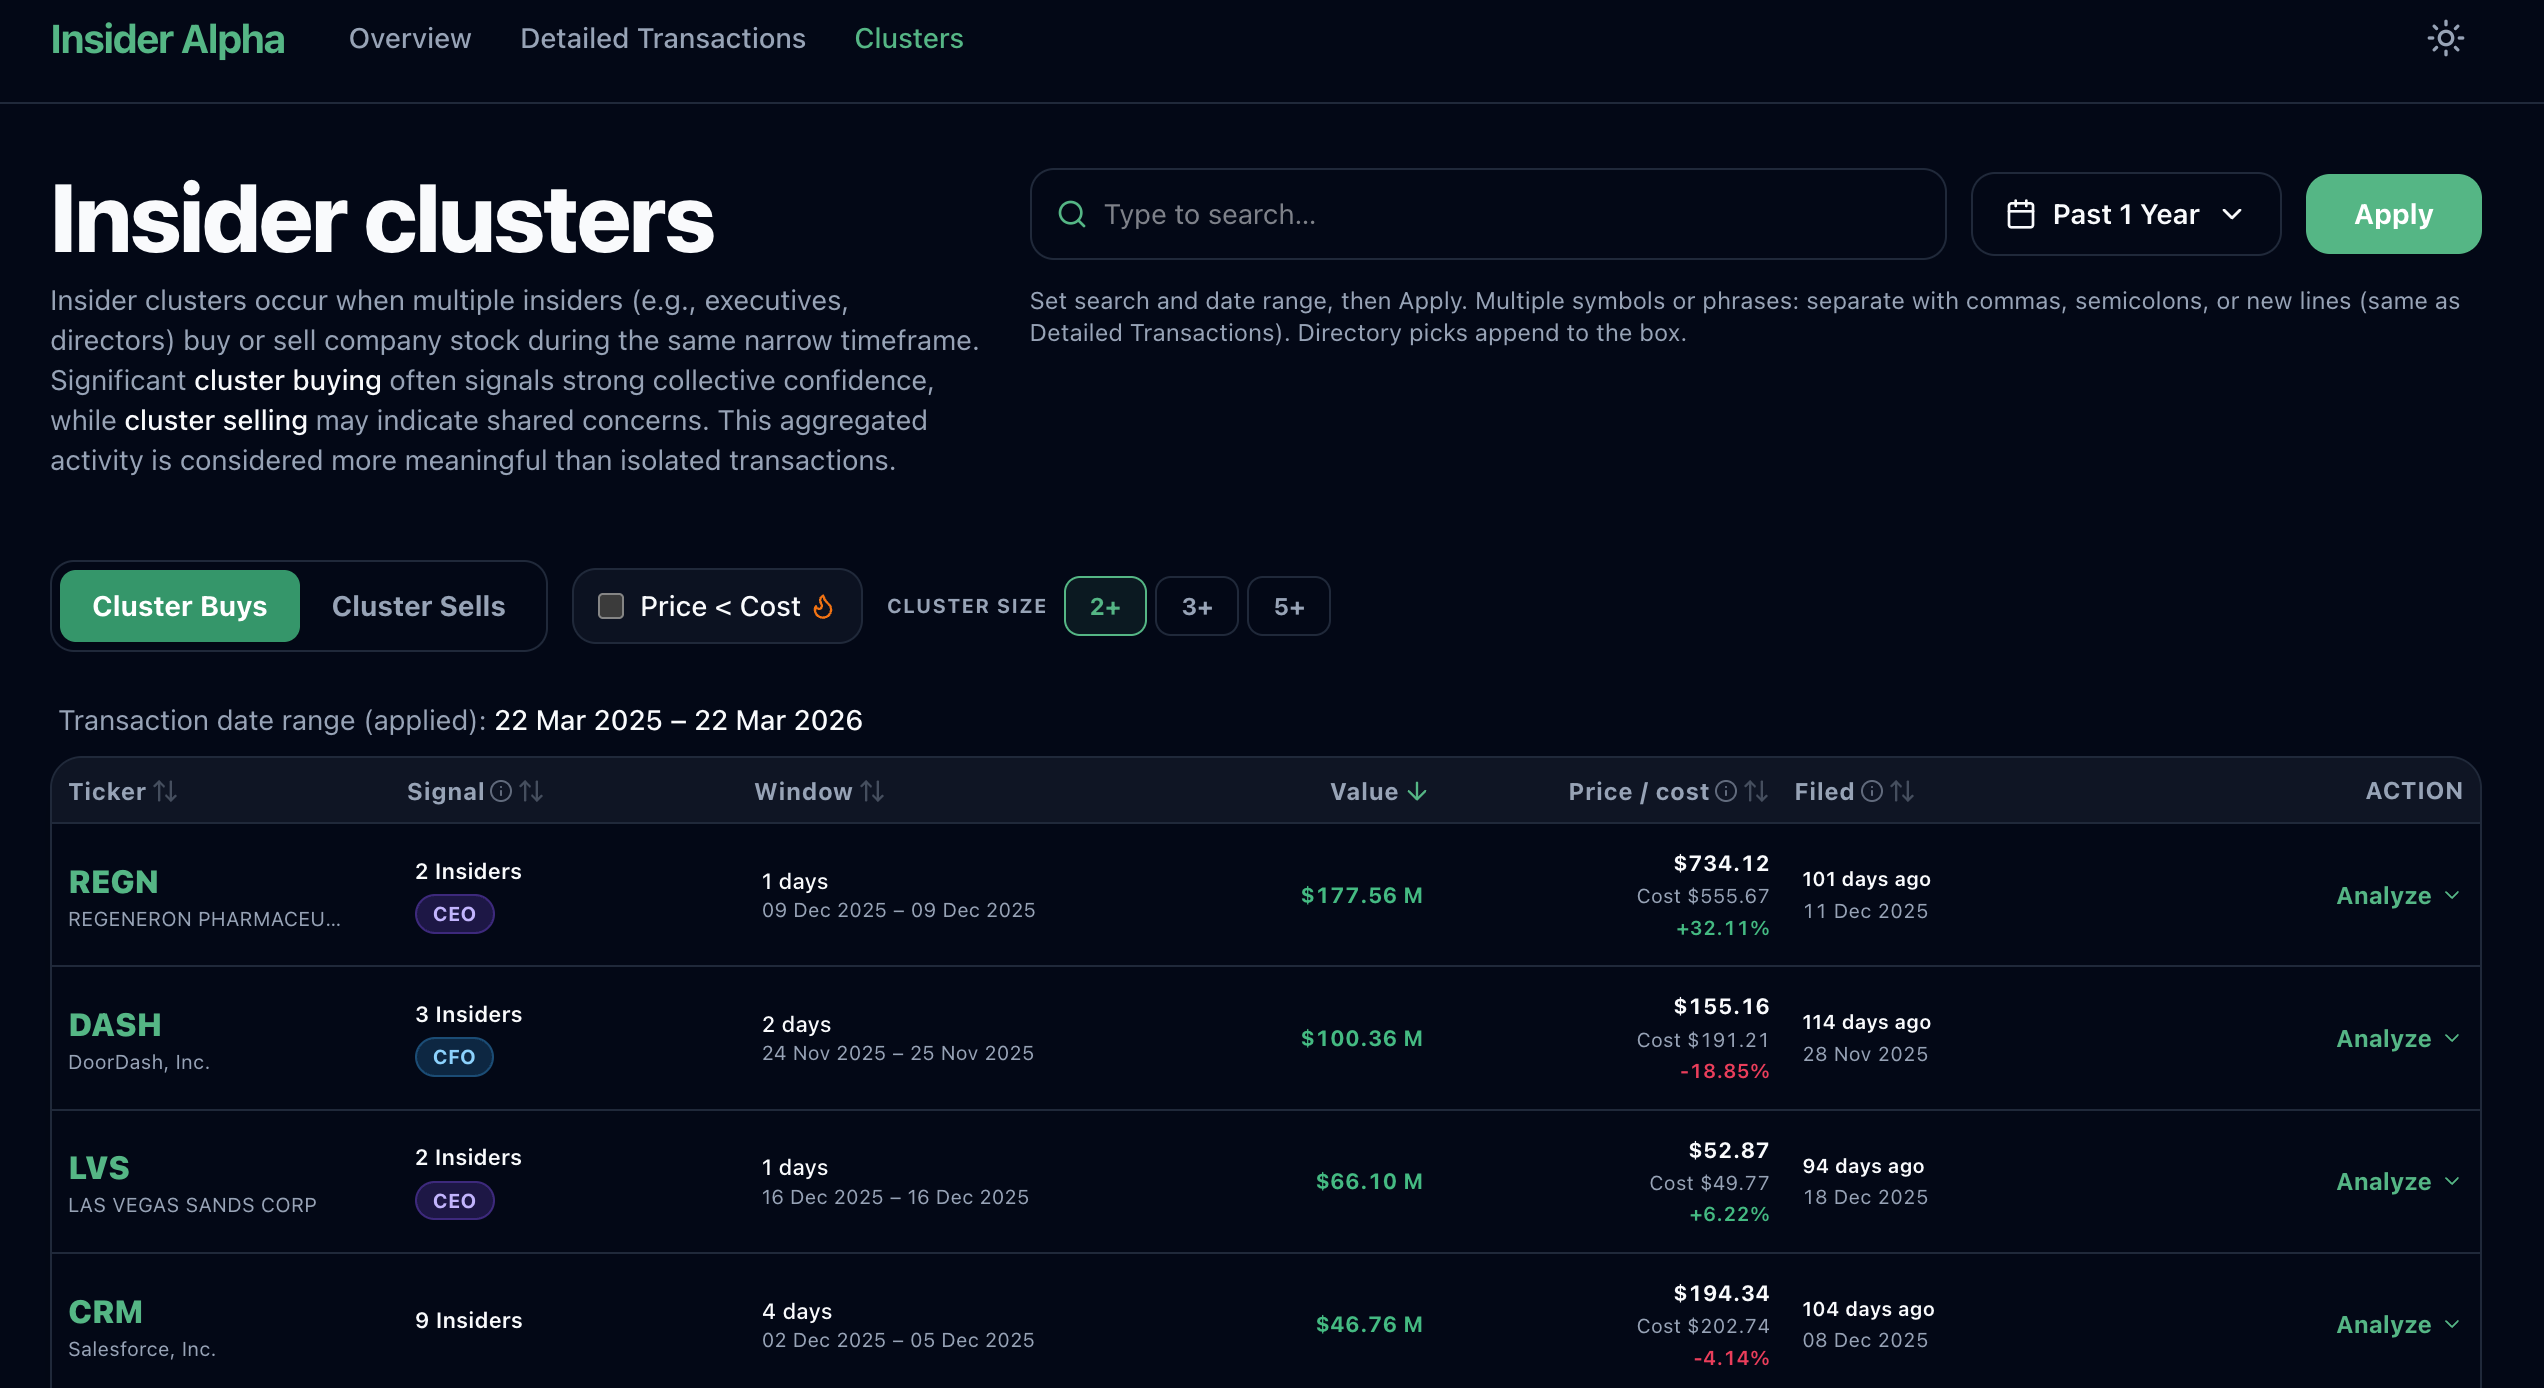
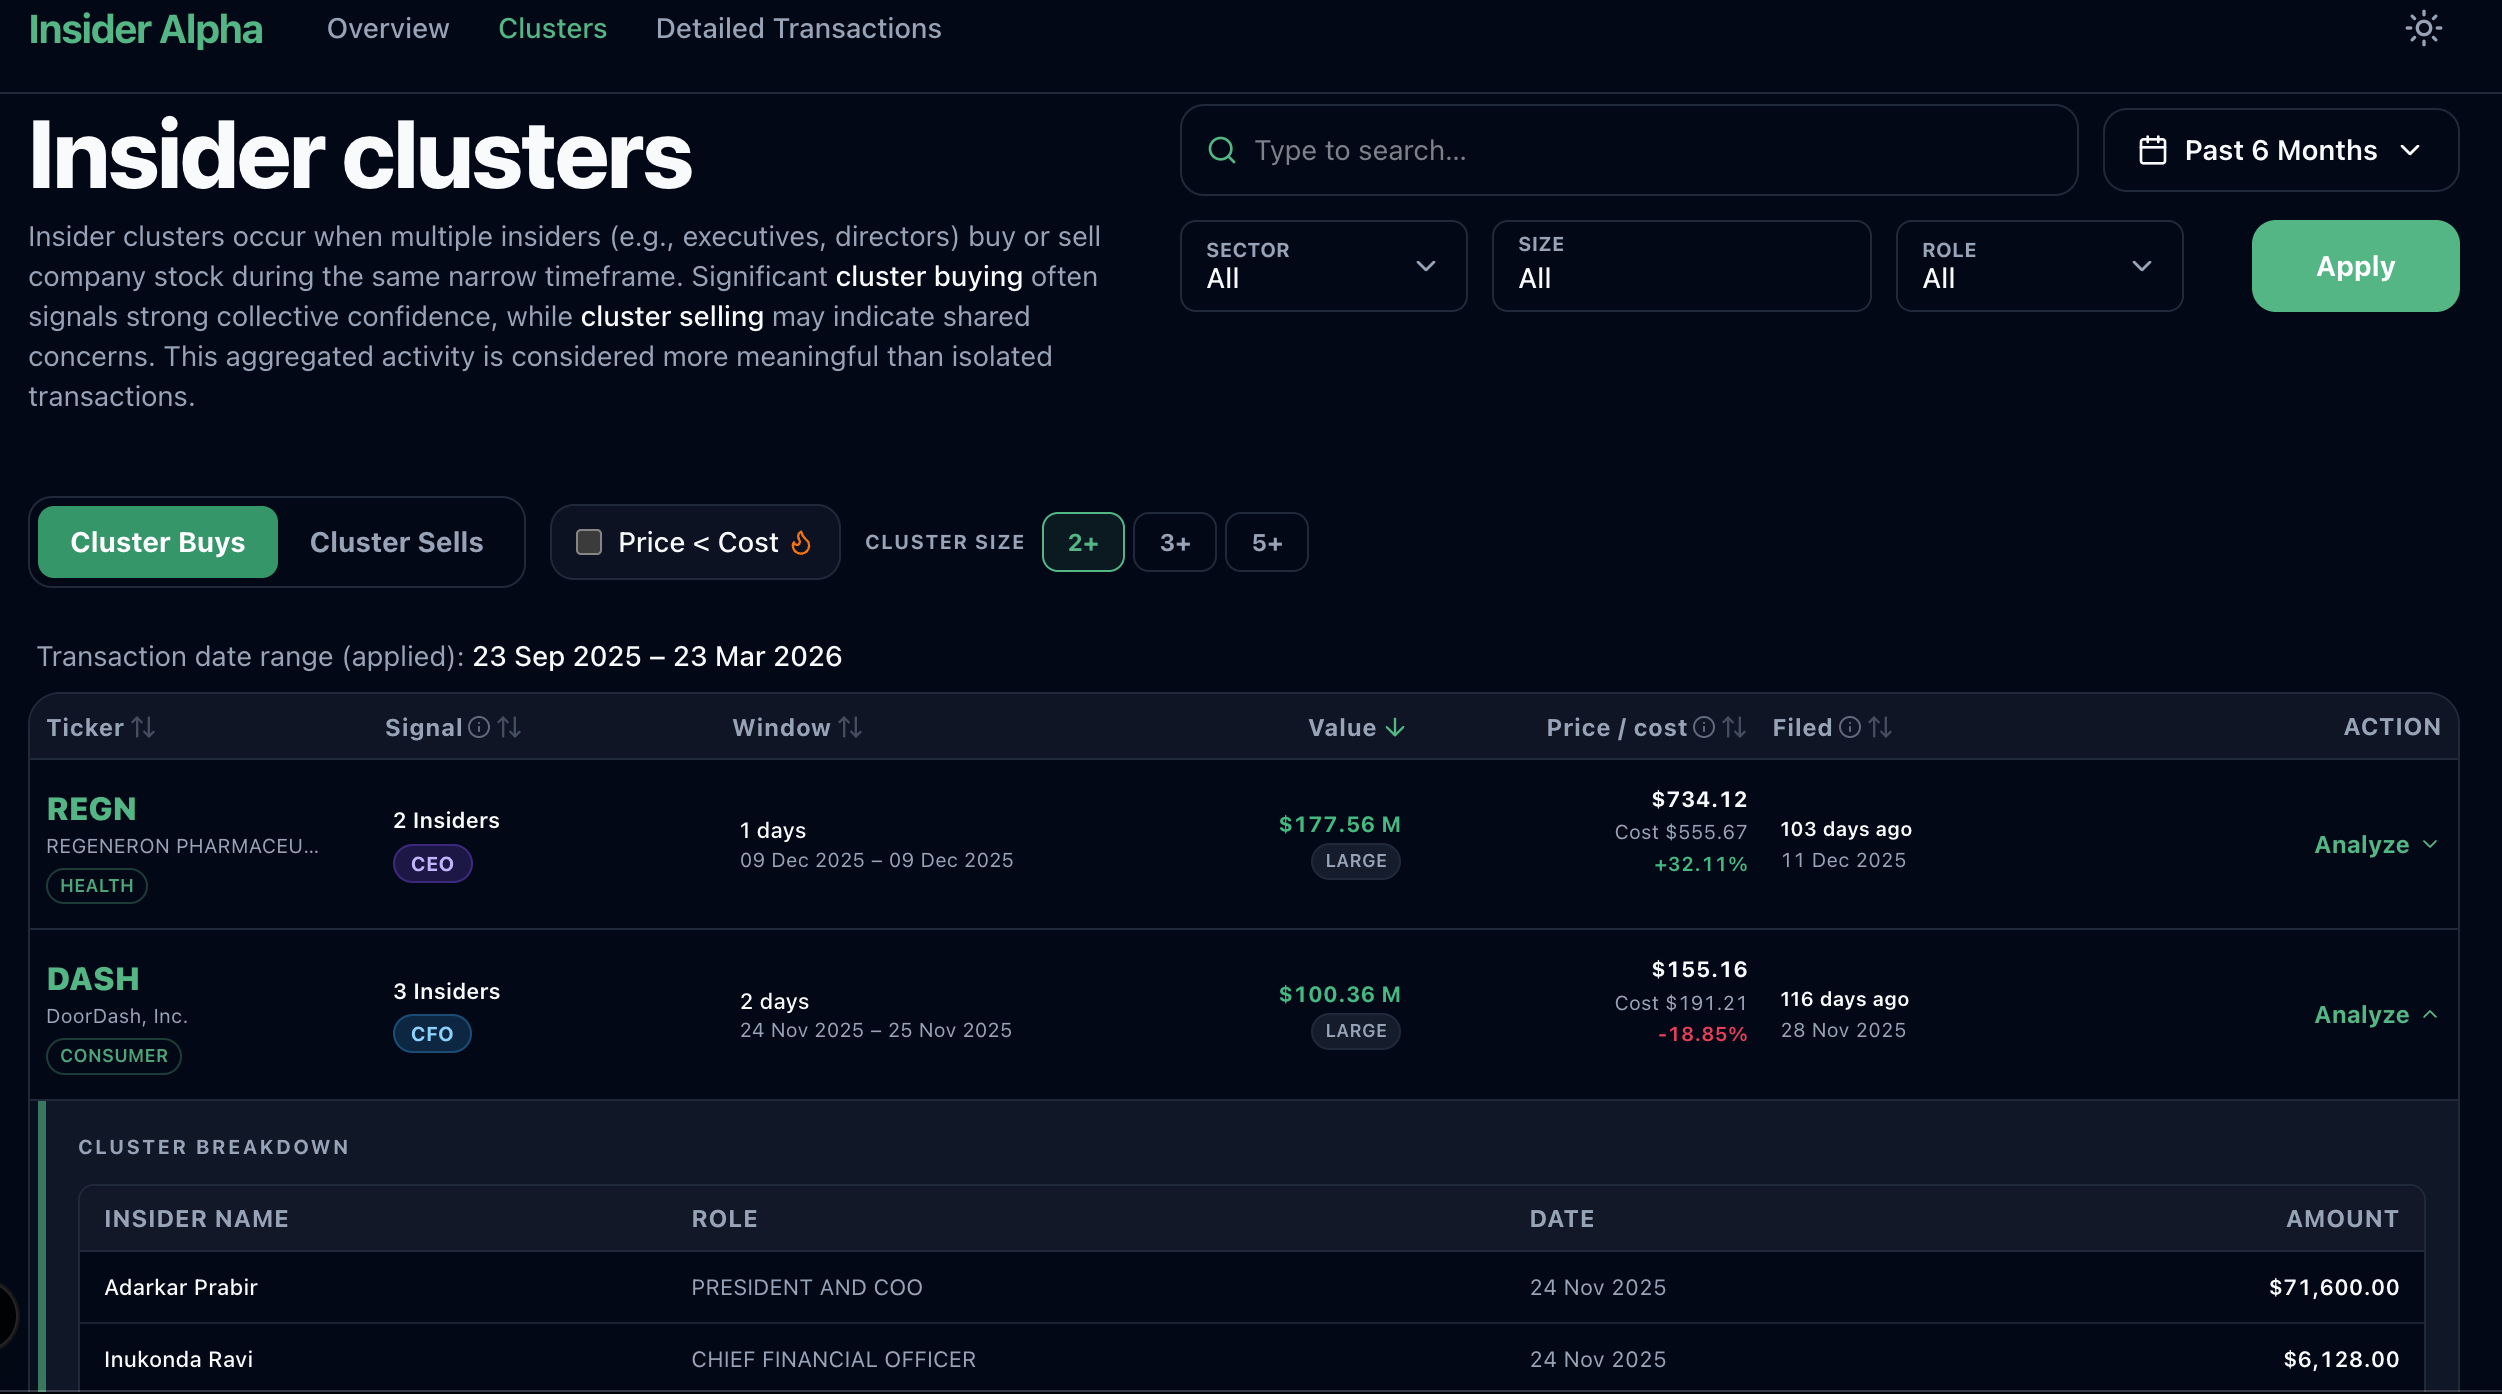
update

diff --git a/visualisation/frontend/src/app/clusters/page.tsx b/visualisation/frontend/src/app/clusters/page.tsx
@@ -29,6 +29,7 @@ import {
   returnPctColorClass,
   formatUsdPerShare,
   formatUsdSmart,
+  txnSizeBadge,
 } from "@/lib/transactionRowModel";
 import { ArrowDown, ArrowUp, ArrowUpDown, ChevronDown, ChevronUp, Flame, Info } from "lucide-react";
 import CandlestickModal from "@/components/CandlestickModal";
@@ -36,6 +37,7 @@ import CandlestickModal from "@/components/CandlestickModal";
 type ClusterRow = {
   ticker: string;
   company: string;
+  issuer_gics_sector?: string;
   filing_count: number;
   insider_count: number;
   week_start: string;
@@ -71,12 +73,6 @@ function windowDays(first: string, last: string) {
   return Math.max(1, Math.round((b - a) / 86400000) + 1);
 }
 
-function currencyM(v: number) {
-  const m = v / 1_000_000;
-  if (m >= 1000) return `$${(m / 1000).toFixed(2)} B`;
-  return `$${m.toFixed(2)} M`;
-}
-
 /** Whole calendar days from filing date (local) to today. */
 function filingDaysAgo(iso: string): number | null {
   const day = isoDay(iso);
@@ -100,6 +96,13 @@ function formatFilingDaysAgo(iso: string) {
 
 function clusterKey(r: ClusterRow) {
   return `${(r.ticker || "").trim().toUpperCase()}|${isoDay(r.week_start)}`;
+}
+
+function clusterSectorChip(sector?: string): string | null {
+  const s = (sector || "").trim();
+  if (!s) return null;
+  const w = s.split(/\s+/)[0] || s;
+  return w.length > 12 ? `${w.slice(0, 11)}…` : w;
 }
 
 function execCeoCfo(roles: string, titles: string) {
@@ -595,6 +598,8 @@ export default function ClustersPage() {
                       const cost = r.implied_price_per_share;
                       const retPct = returnVsTxnPricePct(lastClose, cost ?? null);
                       const badges = execCeoCfo(r.roles, r.titles ?? "");
+                      const sizeLabel = r.cluster_value > 0 ? txnSizeBadge(r.cluster_value) : "";
+                      const sector = clusterSectorChip(r.issuer_gics_sector);
                       const key = clusterKey(r);
                       const open = expandedKey === key;
                       const breakdown = breakdownByKey.get(key);
@@ -620,6 +625,13 @@ export default function ClustersPage() {
                                 {r.ticker}
                               </button>
                               <div className="text-[10px] text-muted-foreground truncate max-w-[140px]">{r.company}</div>
+                              {sector ? (
+                                <div className="flex flex-wrap gap-0.5 mt-1">
+                                  <span className="text-[9px] font-semibold uppercase px-1.5 py-0.5 rounded-full border border-primary/30 text-primary/90 truncate max-w-full">
+                                    {sector}
+                                  </span>
+                                </div>
+                              ) : null}
                             </td>
                             <td className="px-2 py-3">
                               <div className="font-semibold text-foreground">
@@ -644,8 +656,15 @@ export default function ClustersPage() {
                                 {fmtClusterDate(r.first_trans)} – {fmtClusterDate(r.last_trans)}
                               </div>
                             </td>
-                            <td className={cn("px-2 py-3 text-right font-bold tabular-nums", valueCls)}>
-                              {currencyM(r.cluster_value)}
+                            <td className={cn("px-2 py-3 text-right tabular-nums", valueCls)}>
+                              <div className="font-bold">{formatUsdSmart(r.cluster_value)}</div>
+                              {sizeLabel ? (
+                                <div className="mt-0.5 flex justify-end">
+                                  <span className="text-[9px] font-semibold uppercase px-1.5 py-0.5 rounded-full border border-border bg-secondary/60 text-muted-foreground">
+                                    {sizeLabel}
+                                  </span>
+                                </div>
+                              ) : null}
                             </td>
                             <td className="px-2 py-3 text-right align-top tabular-nums pr-2">
                               <div className="font-bold text-foreground">

diff --git a/visualisation/frontend/src/components/Navbar.tsx b/visualisation/frontend/src/components/Navbar.tsx
@@ -20,8 +20,8 @@ export default function Navbar() {
 
   const navLinks = [
     { label: "Overview", href: "/" },
-    { label: "Detailed Transactions", href: "/transactions" },
     { label: "Clusters", href: "/clusters" },
+    { label: "Detailed Transactions", href: "/transactions" },
   ];
 
   return (

diff --git a/visualisation/backend/api/endpoints.py b/visualisation/backend/api/endpoints.py
@@ -755,6 +755,7 @@ async def get_clusters(
                 f.ACCESSION_NUMBER,
                 f.ISSUERTRADINGSYMBOL AS ticker,
                 f.ISSUERNAME AS company,
+                f.issuer_gics_sector AS issuer_gics_sector,
                 f.TRANS_DATE AS txn_date,
                 f.FILING_DATE AS filing_date,
                 f.reporting_owner_titles,
@@ -789,6 +790,7 @@ async def get_clusters(
             SELECT
                 ticker,
                 ANY_VALUE(company) AS company,
+                ANY_VALUE(issuer_gics_sector) AS issuer_gics_sector,
                 DATE_TRUNC(txn_date, WEEK(MONDAY)) AS week_start,
                 COUNT(DISTINCT ACCESSION_NUMBER) AS filing_count,
                 MIN(txn_date) AS first_trans,
@@ -807,6 +809,7 @@ async def get_clusters(
         SELECT
             a.ticker,
             a.company,
+            a.issuer_gics_sector,
             a.week_start,
             a.filing_count,
             a.first_trans,
@@ -841,6 +844,7 @@ async def get_clusters(
                 {
                     "ticker": r["ticker"] if pd.notna(r["ticker"]) else "",
                     "company": (r["company"] if pd.notna(r["company"]) else "") or "",
+                    "issuer_gics_sector": (r["issuer_gics_sector"] if pd.notna(r["issuer_gics_sector"]) else "") or "",
                     "filing_count": _pd_int(r["filing_count"]),
                     "insider_count": _pd_int(r["insider_count"]),
                     "week_start": ws.isoformat() if hasattr(ws, "isoformat") and pd.notna(ws) else str(ws),

diff --git a/README.md b/README.md
@@ -64,17 +64,18 @@ The pipeline implements a sophisticated ELT workflow orchestrated by Dagster:
    - **Data Volume**: ~10M+ records per year across all public companies
 
 2. **S&P 500 Market Data**
+   - **Source**: DataHub S&P 500 constituents (https://datahub.io/core/s-and-p-500-companies/_r/-/data/constituents.csv)
+   - **Content**: Company symbols, names, GICS sectors, CIK mappings, headquarters locations
+   - **Update Frequency**: Monthly (configurable via script)
+   - **Ingestion Method**: `scripts/download_sync_sp500_companies.py` with JSONL conversion for Meltano
+   - **Data Volume**: ~500 constituents with full company metadata
+
+3. **Market Price Data**
    - **Source**: Yahoo Finance API via yfinance library
-   - **Content**: Daily OHLCV data, company profiles, sector classifications
+   - **Content**: Daily OHLCV data for S&P 500 constituents
    - **Update Frequency**: Daily (configurable)
    - **Ingestion Method**: `scripts/get_stock_data_yfinance.py` with incremental updates
    - **Data Volume**: ~500 constituents × daily price history
-
-3. **Company Reference Data**
-   - **Source**: SEC company tickers database
-   - **Content**: Company mappings, CIK numbers, exchange information
-   - **Update Frequency**: Monthly
-   - **Ingestion Method**: Automated sync via `scripts/sync_sec_company_tickers.py`
 
 #### Data Ingestion Architecture
 
@@ -117,11 +118,11 @@ Raw Data Sources
 The data warehouse follows a star schema pattern with optimized clustering:
 
 ```
-┌─────────────────┐    ┌─────────────────┐    ┌─────────────────┐
-│ dim_sec_        │    │ dim_sec_        │    │ dim_sp500_      │
-│ submission      │    │ reporting_owner │    │ company         │
-│                 │    │                 │    │                 │
-│ • ACCESSION_    │    │ • RPTOWNERCIK   │    │ • symbol_norm   │
+┌─────────────────┐    ┌─────────────────┐    ┌─────────────────┐    ┌─────────────────────┐
+│ dim_sec_        │    │ dim_sec_        │    │ dim_sp500_      │    │ dim_sp500_        │
+│ submission      │    │ reporting_owner │    │ company         │    │ reporting_owner   │
+│                 │    │                 │    │                 │    │                 │
+│ • ACCESSION_    │    │ • RPTOWNERCIK   │    │ • symbol_norm   │    │ • ACCESSION_     │
 │   NUMBER (PK)   │    │ • RPTOWNERNAME  │    │ • CIK           │
 │ • FILING_DATE   │    │ • role_type     │    │ • sector        │
 │ • ISSUER_INFO   │    │ • is_insider    │    │ • industry      │
@@ -218,6 +219,12 @@ The dbt transformation layer implements sophisticated financial data processing:
 - **Symbol Normalization**: Standardizes ticker symbols to uppercase
 - **CIK Mapping**: Links SEC CIK numbers to trading symbols
 - **Sector Classification**: GICS sector assignment for industry analysis
+- **Purpose**: Used to filter SEC insider transactions to S&P 500 companies only
+
+**`dim_sp500_reporting_owner`**:
+- **S&P 500 Filtering**: Subset of `dim_sec_reporting_owner` for S&P 500 insiders only
+- **Accession Filtering**: Only includes owners who transacted in S&P 500 companies
+- **Performance Optimization**: Enables efficient cluster analysis and breakdown queries
 
 #### 3. Fact Table Aggregations
 
@@ -311,6 +318,7 @@ The pipeline implements multi-layer data quality assurance:
 
 - **dim_sec_submission**: 2 tests (unique, not_null on primary key)
 - **dim_sec_reporting_owner**: 3 tests (not_null on key fields)
+- **dim_sp500_reporting_owner**: 2 tests (not_null on primary key, CIK)
 - **fct_sec_nonderiv_line**: 4 tests (not_null + business validation)
 - **fct_insider_transactions**: 2 tests (unique, not_null on primary key)
 - **Coverage**: 100% of critical business fields tested

diff --git a/docs/dashboard_setup.md b/docs/dashboard_setup.md
@@ -135,12 +135,29 @@ The Insider Alpha Dashboard provides:
    - Interactive charts using Lightweight Charts
    - Transaction volume analysis
    - Value trend visualization
+   - **Cluster Analysis**: Sector and Size filtering pills
+   - **Enhanced UI**: Consistent tab ordering (Clusters, then Detailed Transactions)
+
+### User Interface Features
+
+**Tab Navigation**:
+- **Clusters Tab**: Primary view for insider trading cluster analysis
+- **Detailed Transactions Tab**: Comprehensive transaction listing
+- **Overview Tab**: Market summary and statistics
+
+**Cluster Analysis Enhancements**:
+- **Sector Filter**: Pill-based sector selection (same as Detailed Transactions)
+- **Size Filter**: Transaction size filtering options
+- **Consistent UI**: Unified filtering interface across all views
+- **Performance**: Optimized queries using dim_sp500_reporting_owner
 
 ### API Endpoints
 
 The backend exposes several key endpoints:
 
-- `GET /api/transactions` - Paginated insider transactions
+- `GET /api/clusters` - Insider trading cluster analysis with sector and size filtering
+- `GET /api/clusters/breakdown` - Detailed cluster breakdown using dim_sp500_reporting_owner
+- `GET /api/transactions` - Paginated insider transactions with enhanced filtering
 - `GET /api/companies` - S&P 500 company directory
 - `GET /api/search/insiders` - Insider search functionality
 - `GET /api/search/stocks` - Stock search functionality
@@ -344,6 +361,3 @@ After setting up the dashboard:
 
 1. Explore the [API documentation](http://localhost:8000/docs)
 2. Browse the frontend interface at `http://localhost:3000`
-3. Review the data models in BigQuery
-4. Customize visualizations for your use case
-5. Set up automated data refresh schedules
